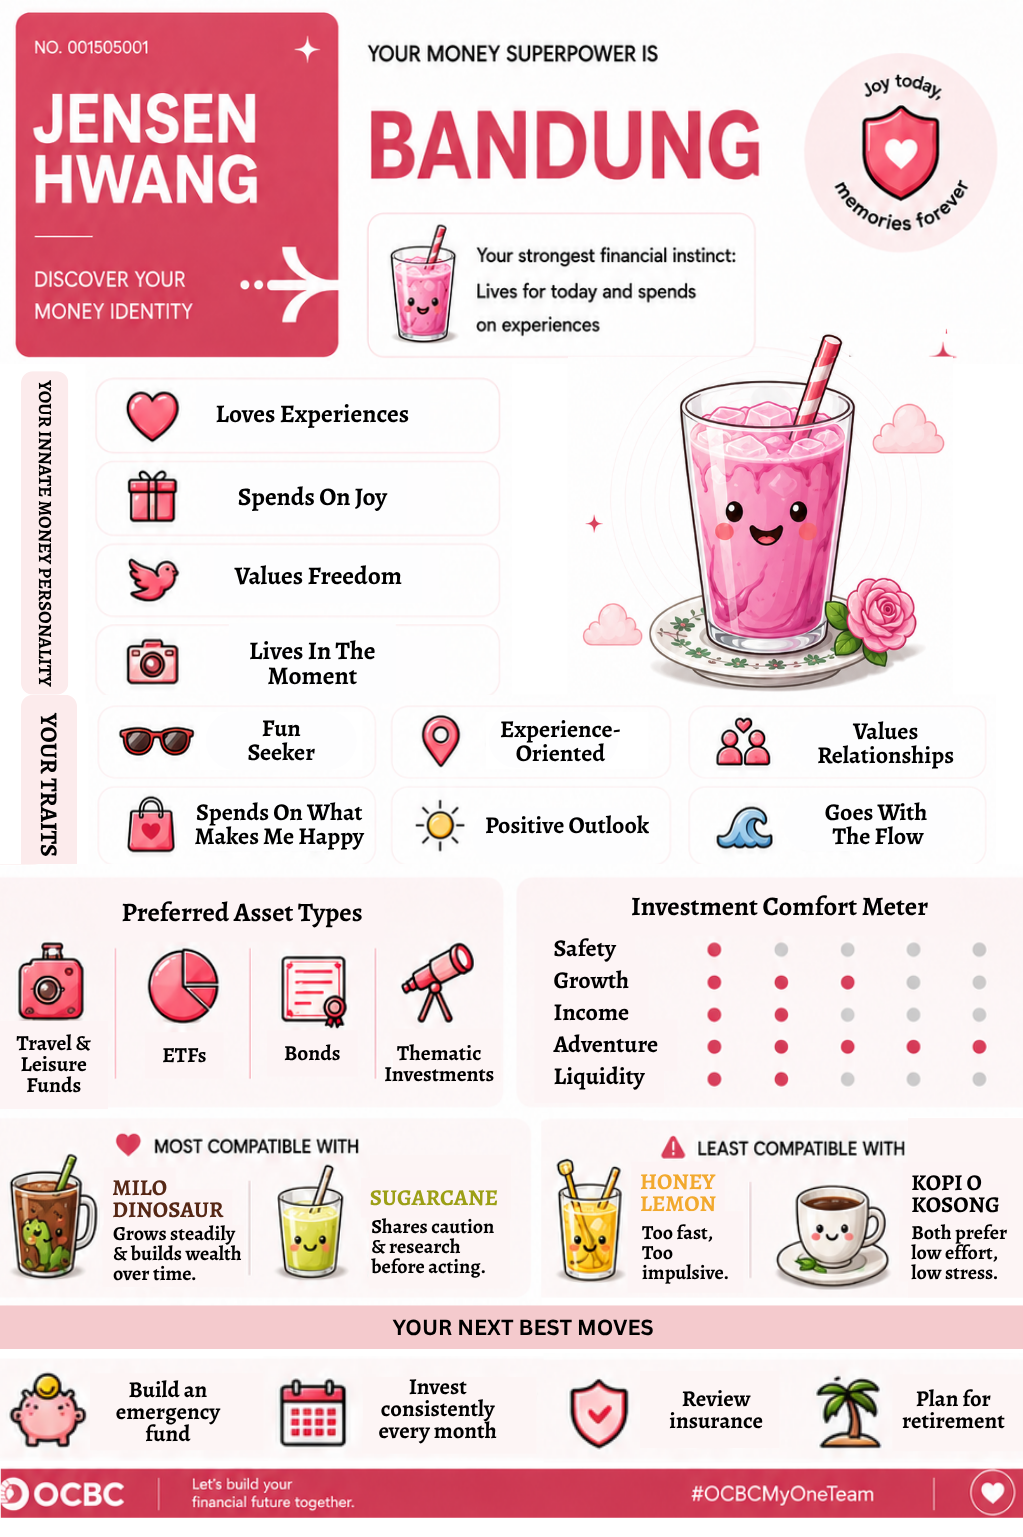
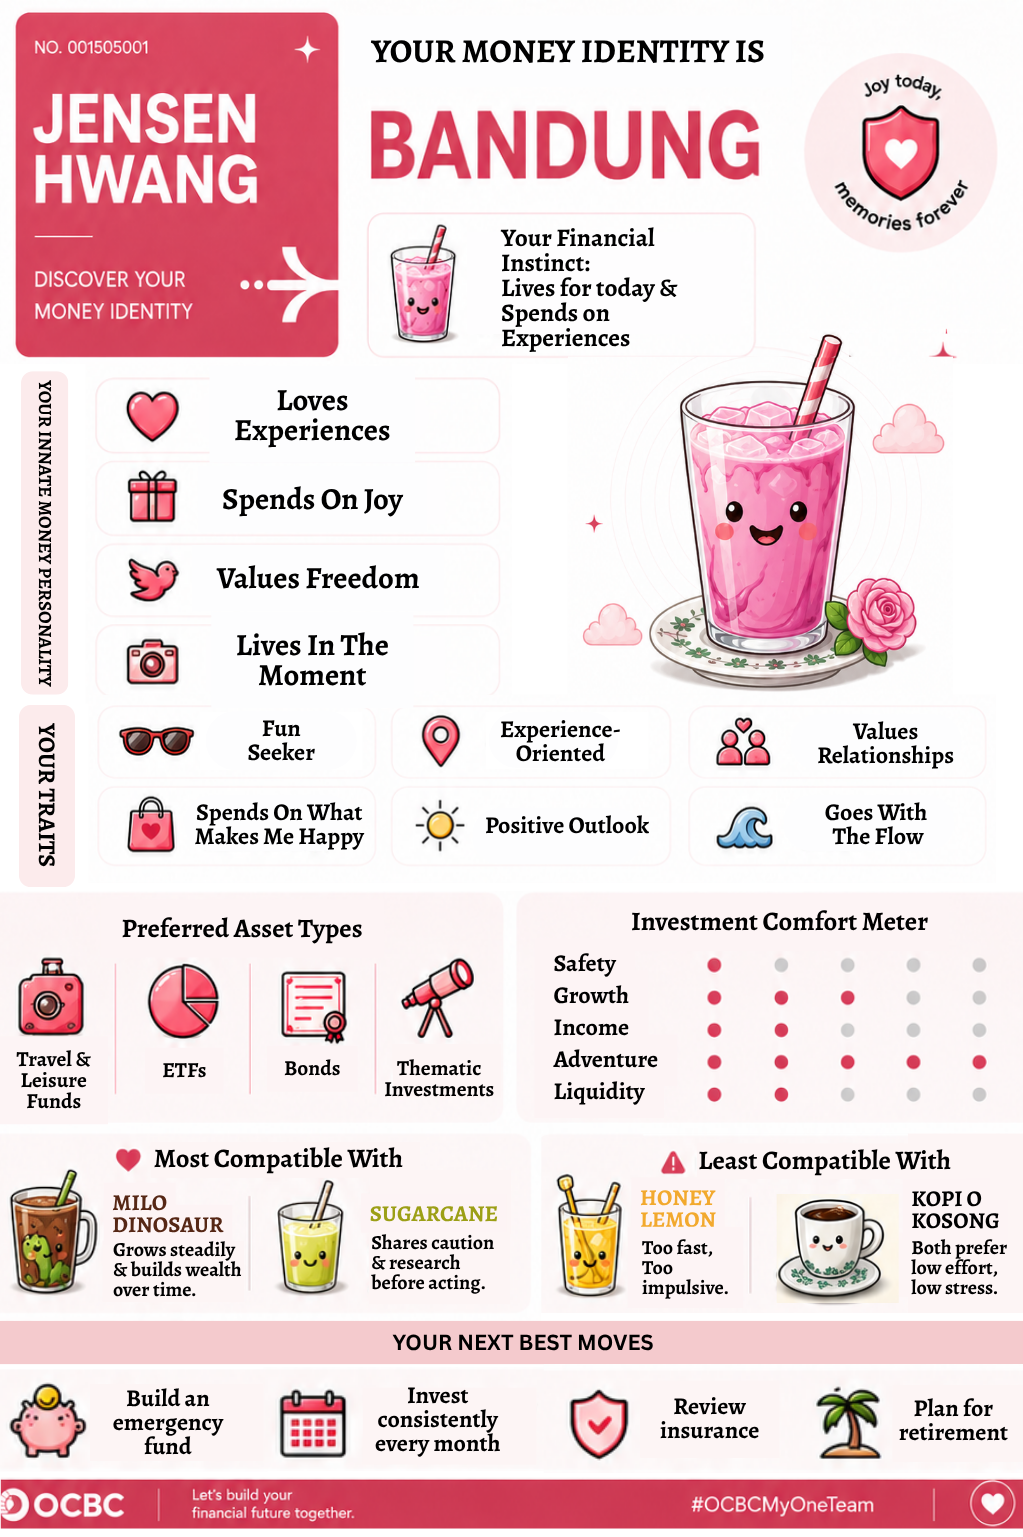
push sg theme profiles

diff --git a/index.html b/index.html
@@ -1385,7 +1385,7 @@ const ARCHETYPES=[
     compatible:[{id:'compass',why:'Shares ambition and speed'},{id:'balloon',why:'Shares spontaneity'}],
     incompatible:[{id:'stone',why:'Too cautious to keep up'},{id:'anchor',why:'Opposite in every way'}],
     moves:['Set a hard stop-loss rule','Build a minimum emergency fund outside trading accounts','Cap high-risk exposure as a percent of net worth','Review win/loss history honestly each quarter']},
-  {id:'balloon',theme:'#d54b5e',name:'Balloon',img:'images/mbti/ocbc-ea-balloon.png',risk:2.1,plan:3.4,
+  {id:'balloon',theme:'#d54b5e',name:'Bandung',img:'images/mbti/ocbc-ea-bandung.png',risk:2.1,plan:3.4,
     superpower:'Joy today, memories forever',
     instinct:'Lives for today and spends on experiences',
     personality:['Loves experiences','Spends on joy','Values freedom','Lives in the moment','Seeks excitement','Easygoing and optimistic'],
@@ -2034,7 +2034,8 @@ function overAppetite(){return planRiskLevel()>riskProfileLevel()+1;}
 
 /* ============ shared bits ============ */
 function homePromo(){
-  const slides=[{intro:true}].concat(CARAG.map(a=>({a:a})));
+  const mbtiSlide=state.mbti.done && state.mbti.archetype ? [{identity:true}] : [];
+  const slides=[{intro:true}].concat(mbtiSlide).concat(CARAG.map(a=>({a:a})));
   const dots=slides.map((_,i)=>`<button onclick="event.stopPropagation();agJump(${i})" aria-label="Go to slide ${i+1}" style="display:flex;align-items:center;justify-content:center;width:20px;height:20px;padding:0;margin:0;border:none;background:transparent;cursor:pointer"><span id="agdot${i}" style="display:inline-block;width:${i===0?16:6}px;height:6px;border-radius:3px;background:${i===0?'#b8791f':'rgba(196,138,26,.25)'};transition:all .35s ease"></span></button>`).join('');
   const facepile=CARAG.map((a,i)=>`<div style="width:38px;height:38px;border-radius:11px;overflow:hidden;border:2px solid rgba(196,138,26,.35);margin-left:${i?-11:0}px;box-shadow:0 3px 8px rgba(20,10,5,.15);position:relative;z-index:${10-i}">${avatar(a)}</div>`).join('');
   const body=slides.map((sl,i)=>{
@@ -2049,6 +2050,15 @@ function homePromo(){
           <div style="font-size:12px;color:var(--muted);line-height:1.4">A personalised plan built from what OCBC already knows about you \u2014 in minutes, no forms.</div>
         </div>
       </div>`;
+    if(sl.identity){const arc=state.mbti.archetype;
+      return `<div id="agslide${i}" style="${base};display:flex;align-items:center;gap:18px" onclick="event.stopPropagation();go('mbtiResult')">
+        <div style="width:74px;height:74px;flex-shrink:0;border-radius:18px;overflow:hidden;box-shadow:0 4px 16px rgba(20,10,5,.18);border:2px solid ${arc.theme}55"><img src="${arc.img}" style="width:100%;height:100%;object-fit:cover" alt="${arc.name}"></div>
+        <div style="flex:1;min-width:0">
+          <div style="font-size:10px;color:#b8791f;margin-bottom:4px;text-transform:uppercase;letter-spacing:.06em;font-weight:700">Your Money Identity</div>
+          <div style="font-family:'Sora';font-weight:800;font-size:17px;color:${arc.theme};line-height:1.2;margin-bottom:4px">${arc.name}</div>
+          <div style="font-size:12.5px;color:var(--ink2);line-height:1.4">${arc.superpower}</div>
+        </div>
+      </div>`;}
     const a=sl.a;
     return `<div id="agslide${i}" style="${base};display:flex;align-items:center;gap:18px">
         <div style="width:74px;height:74px;flex-shrink:0;border-radius:18px;overflow:hidden;box-shadow:0 4px 16px rgba(20,10,5,.18);border:2px solid rgba(196,138,26,.3)">${avatar(a)}</div>
@@ -2065,7 +2075,7 @@ function homePromo(){
       <div id="agDots" style="display:flex;gap:5px">${dots}</div>
     </div>
     <div id="agCarousel" style="position:relative;height:128px;margin-bottom:16px;overflow:hidden">${body}</div>
-    <button class="pb" onclick="go('mbtiIntro')">Try It Now \u2192</button>
+    <button class="pb" onclick="${state.mbti.done?"go('team')":"go('mbtiIntro')"}">Try It Now \u2192</button>
   </div>`;
 }
 function appbar(t,back,gold,hideLogo){return `<div class="appbar"><div class="back" onclick="go('${back}')">‹</div><div class="ttl">${t}</div>${hideLogo?'':`<div class="ologo${gold?' ologo-gold':''}">${gold?'<svg class="ologo-mark" viewBox="0 0 40 40" xmlns="http://www.w3.org/2000/svg"><circle cx="20" cy="20" r="19" fill="none" stroke="url(#ogGrad)" stroke-width="2.4"/><path d="M20 9 L28 15 V25 L20 31 L12 25 V15 Z" fill="none" stroke="url(#ogGrad)" stroke-width="2.2" stroke-linejoin="round"/><defs><linearGradient id="ogGrad" x1="0" y1="0" x2="1" y2="1"><stop offset="0" stop-color="#f3d68d"/><stop offset="0.55" stop-color="#d3a347"/><stop offset="1" stop-color="#a8701f"/></linearGradient></defs></svg>':''}OCBC</div>`}</div>`;}
@@ -2389,7 +2399,6 @@ mbtiResult(){
     <button class="mbtiact" onclick="mbtiSaveProfile()"><span class="mbtiact-ic">⬇</span>Save</button>
     <button class="mbtiact" onclick="mbtiShareProfile()"><span class="mbtiact-ic">↗</span>Share</button>
   </div>
-  <button class="btn ghost" onclick="go('home')" style="margin-top:10px">← Not ready yet — return to Home</button>
 
   <div class="mbtiupdated">
     <div class="mbtiupdated-ic">✦</div>
@@ -2398,6 +2407,7 @@ mbtiResult(){
 
   <button class="btn gold" onclick="go('team')" style="margin-top:16px">Continue To Build My Team →</button>
   <button class="btn ghost" onclick="mbtiRetake()" style="margin-top:10px">Retake the profile</button>
+  <button class="btn ghost" onclick="go('home')" style="margin-top:10px">← Not ready yet — return to Home</button>
 </div></div></div>`;},
 
 team(){return `<div style="position:relative">
@@ -4115,7 +4125,7 @@ function hideModal(){const o=$('ov');if(o)o.remove();}
 
 /* ============ render ============ */
 function agTo(n){
-  const agN=CARAG.length+1;
+  const agN=CARAG.length+1+(state.mbti.done&&state.mbti.archetype?1:0);
   window._agIdx=((n%agN)+agN)%agN;
   for(let i=0;i<agN;i++){
     const el=document.getElementById('agslide'+i);
